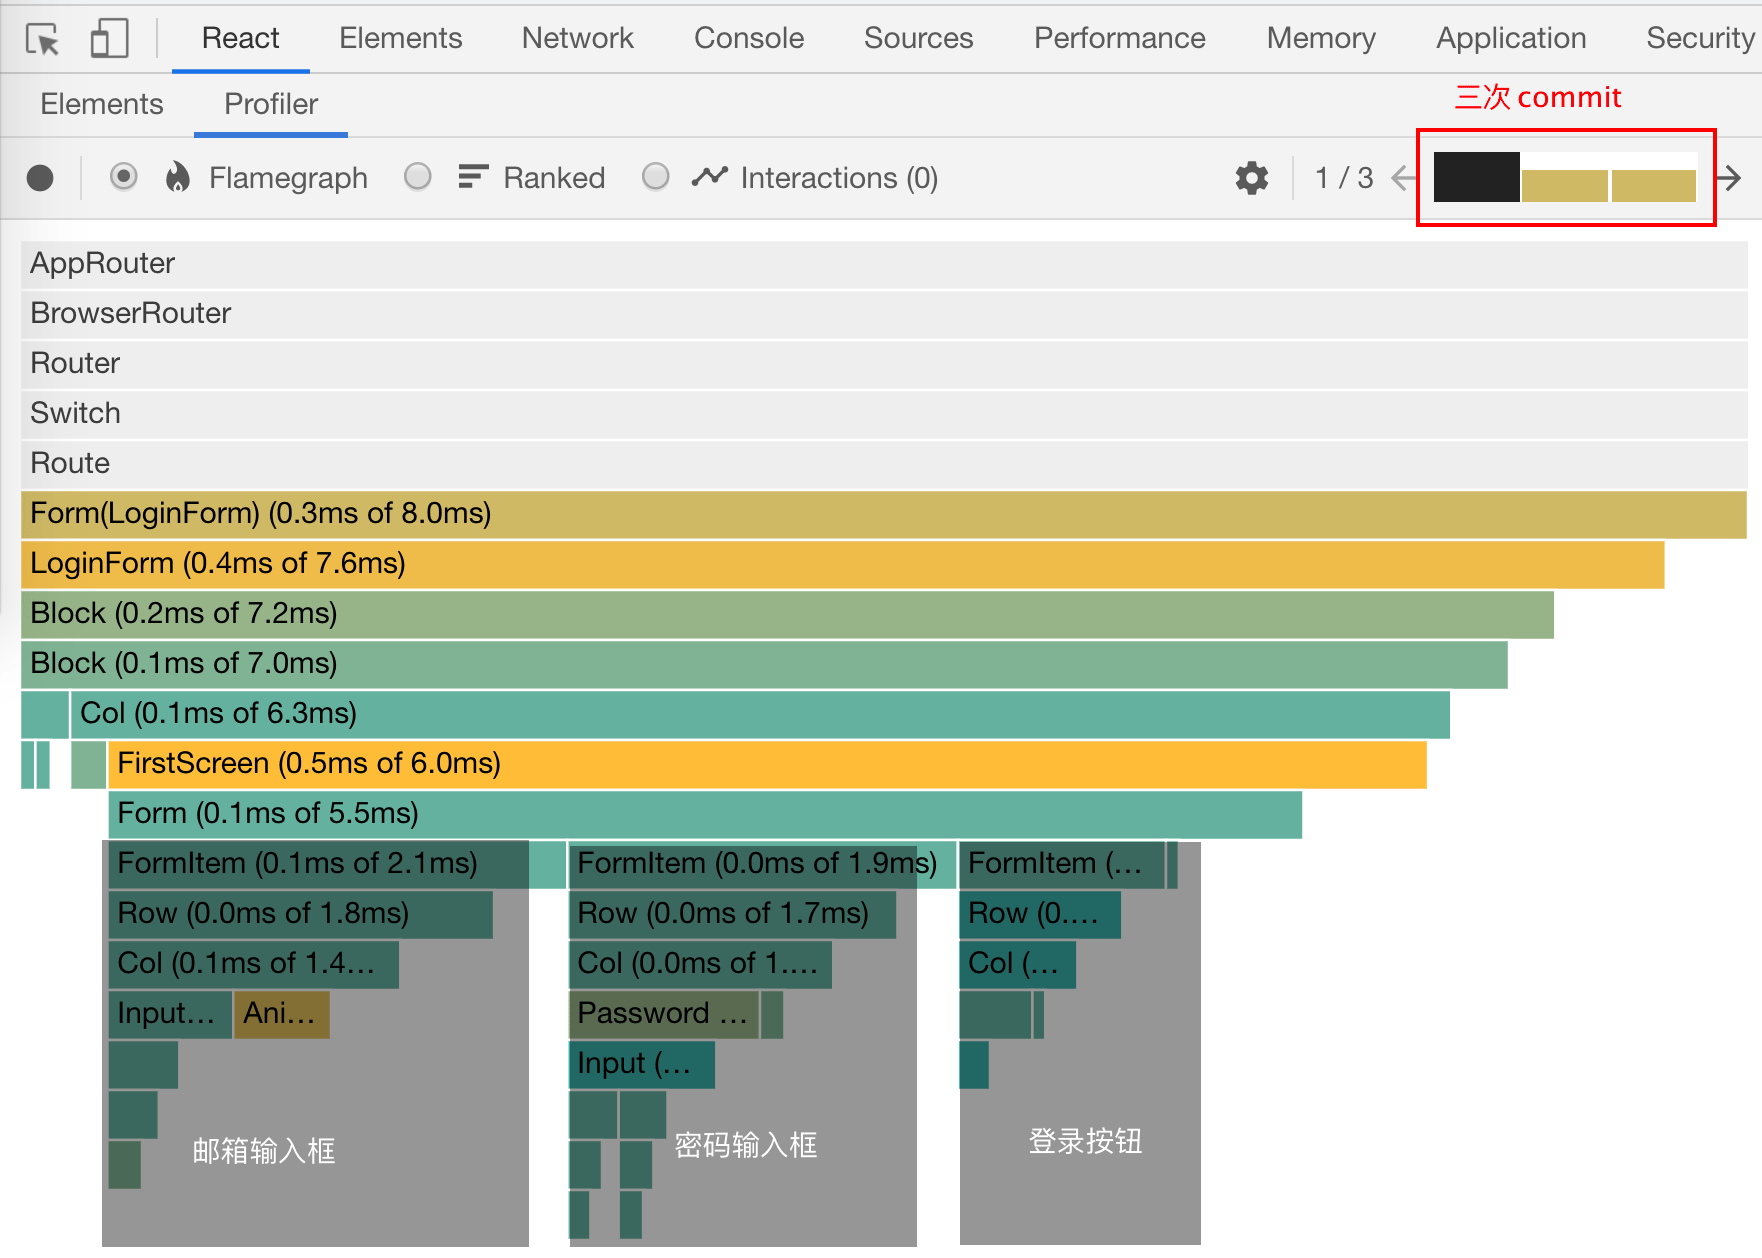
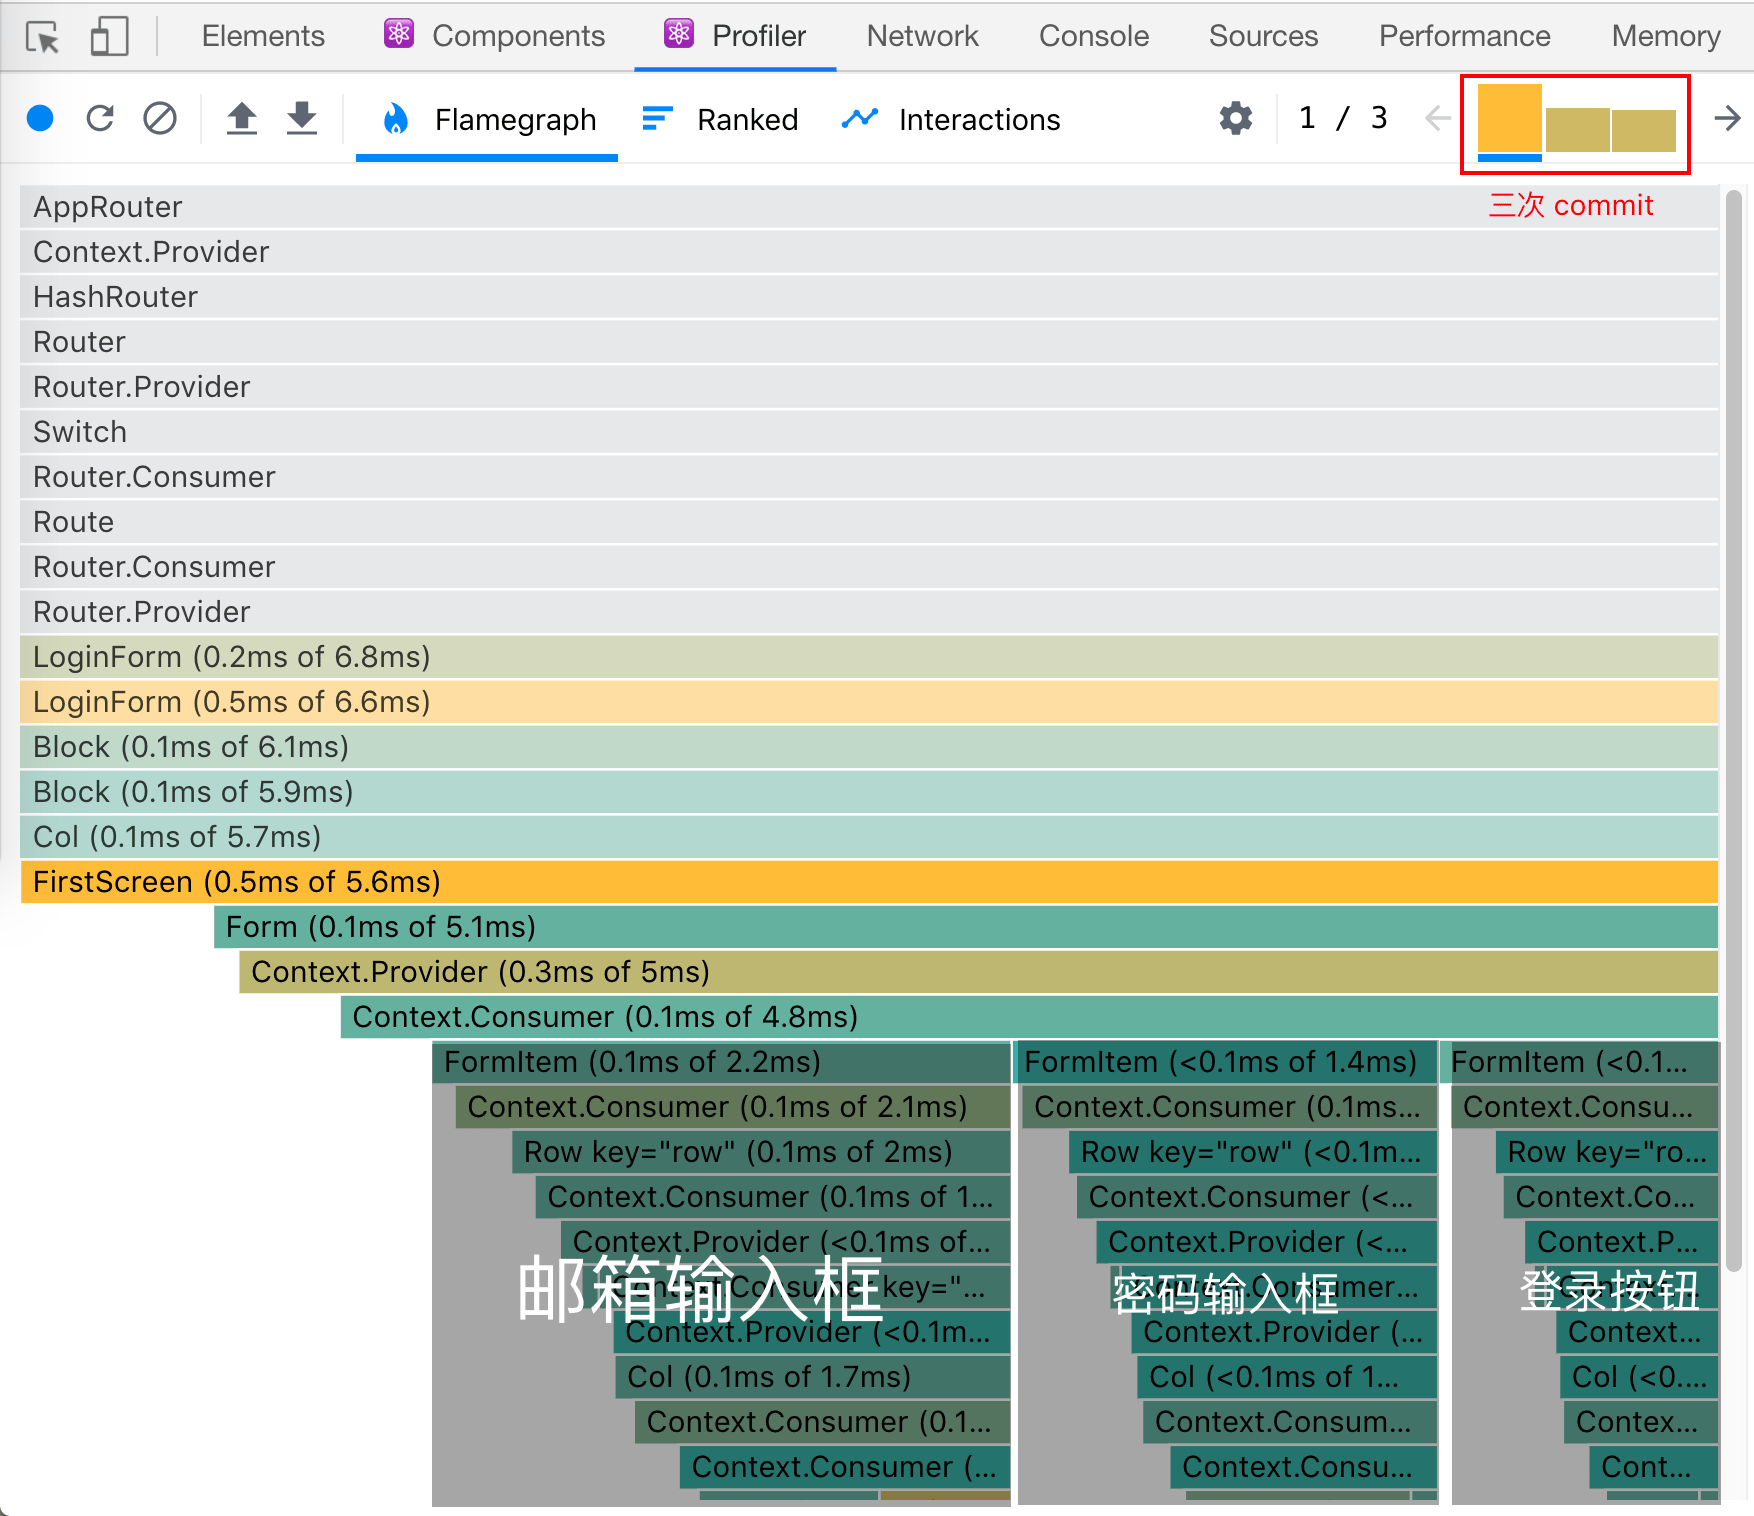
Update post

diff --git a/_posts/2019/08/10/React.js 性能优化/index.md b/_posts/2019/08/10/React.js 性能优化/index.md
@@ -1,5 +1,5 @@
 ---
-title: React.js 性能优化
+title: React 性能优化
 date: 2019/08/10
 permalink: /react-js-optimize-performance
 tags:
@@ -10,29 +10,46 @@ tags:
 
 ![登录表单](login-form.png)
 
-从上图我们可以看到，表单有三个元件：
+从图中我们可以看到，表单有三个元件：
 
 1. 邮箱输入框
 2. 密码输入框
 3. 登录按钮
 
-我们试试用 [react-devtools](https://github.com/facebook/react-devtools) 监测一下，在邮箱输入框输入 “123” 时会发生什么：
+我们试试用 [react-devtools](https://reactjs.org/blog/2019/08/15/new-react-devtools.html) 监测一下，在邮箱输入框输入 “123” 时会发生什么：
 
 ![React 性能分析](./profile-email-input.png)
 
 React 的工作，大致有[两个阶段](https://reactjs.org/blog/2018/09/10/introducing-the-react-profiler.html#reading-performance-data)：
 
 1. `render` 阶段，生成 Virtual DOM，然后 diff；
-2. `commit` 阶段，根据 `render` 阶段 diff 的结果来更新 DOM 节点。
+2. `commit` 阶段，根据 `render` 阶段 diff 的结果来操作 DOM 节点。
 
-截图中一共有三条柱形，表示我们的操作过程中 React 统计到三次 commit - 黑色表示当前选中了第一个 commit。这里柱形的高度表示 `render` 阶段的耗时，注意，我们并不统计 commit 阶段的耗时，因为 commit 阶段是浏览器引擎的工作，并没有我们优化的余地。
+截图中一共有三条柱形，表示我们的操作过程中 React 开发者工具统计到三次 commit - 图中正在查看第一个 commit。这里柱形的高度表示 `render` 阶段的耗时，注意，开发者工具并不统计 commit 阶段的耗时，因为 commit 阶段是浏览器引擎的工作，没有我们优化的余地。
 
-理论上，我们操作邮箱输入框，登录按钮是没有必要反复 render 的。但截图里我们看到了，登录按钮随之发生 render，这是因为，组件是否重新 render 由 [`shouldComponentUpdate`](https://reactjs.org/docs/react-component.html#shouldcomponentupdate) 决定，而它的返回值默认是 `true`。这就浪费时间了，也因此这里就有了优化的余地：我们可以抽出登录按钮代码，变成一个组件，然后在组件的 `shouldComponentUpdate` 事件中返回 `false`，阻止多余的 render。
+理论上，我们操作邮箱输入框，登录按钮是没有必要反复 render 的。但截图里我们看到了，邮箱输入框中输入时，登录按钮随之发生 render。很简单，登录按钮属于表单组件，表单组件的 `state` 发生变化，导致整个表单组件包括登录按钮重新 render。
+
+我们可以将登录按钮拆成一个组件：
+
+```js
+export default SubmitBtn extends React.Component {
+  render () {
+    return // ...
+  }
+}
+```
+重新监测：
+
+![再次监测 React](./profile-email-input-again.png)
+
+很遗憾，与拆出以前没有区别，`SubmitBtn` 仍旧随着表单组件的 `state` 变化而重新 render。
+
+这是因为 React 下，组件是否重新 render 由 [`shouldComponentUpdate`](https://reactjs.org/docs/react-component.html#shouldcomponentupdate) 决定，而它的返回值默认是 `true`。这就浪费时间了，也因此这里就有了优化的余地：我们可以在 `SubmitBtn` 组件中定义一个 `shouldComponentUpdate` 并返回 `false`，阻止多余的 render。
 
 因为这个优化非常常见，所以 React 特地提供了 [`React.PureComponent`](https://reactjs.org/docs/react-api.html#reactpurecomponent) 与 [`React.memo`](https://reactjs.org/docs/react-api.html#reactmemo)，分别针对类组件与函数组件 ：
 
-```javascript
-// 两个版本，喜欢哪个用哪个
+```js
+// 两个版本
 
 // PureComponent 版本
 import React from 'react'
@@ -52,6 +69,6 @@ export default React.memo(SubmitBtn)
 
 ![optimized react](optimized-react-input.png)
 
-这一次，我们操作邮箱输入框时，登录按钮不再 render。
+这一次，我们操作邮箱输入框时，登录按钮组件不再 render。
 
-由此我们就探索出一条 React 性能优化的道路，即**拆分组件**，将组件拆到可以用 memo 或 PureComponent 避开多余的 render - 就达到优化的目的。
+由此我们就探索出一条 React 性能优化的道路：**拆分组件**，将组件拆到可以套用 memo 或 PureComponent 以避开多余的 render - 就达到优化的目的。
